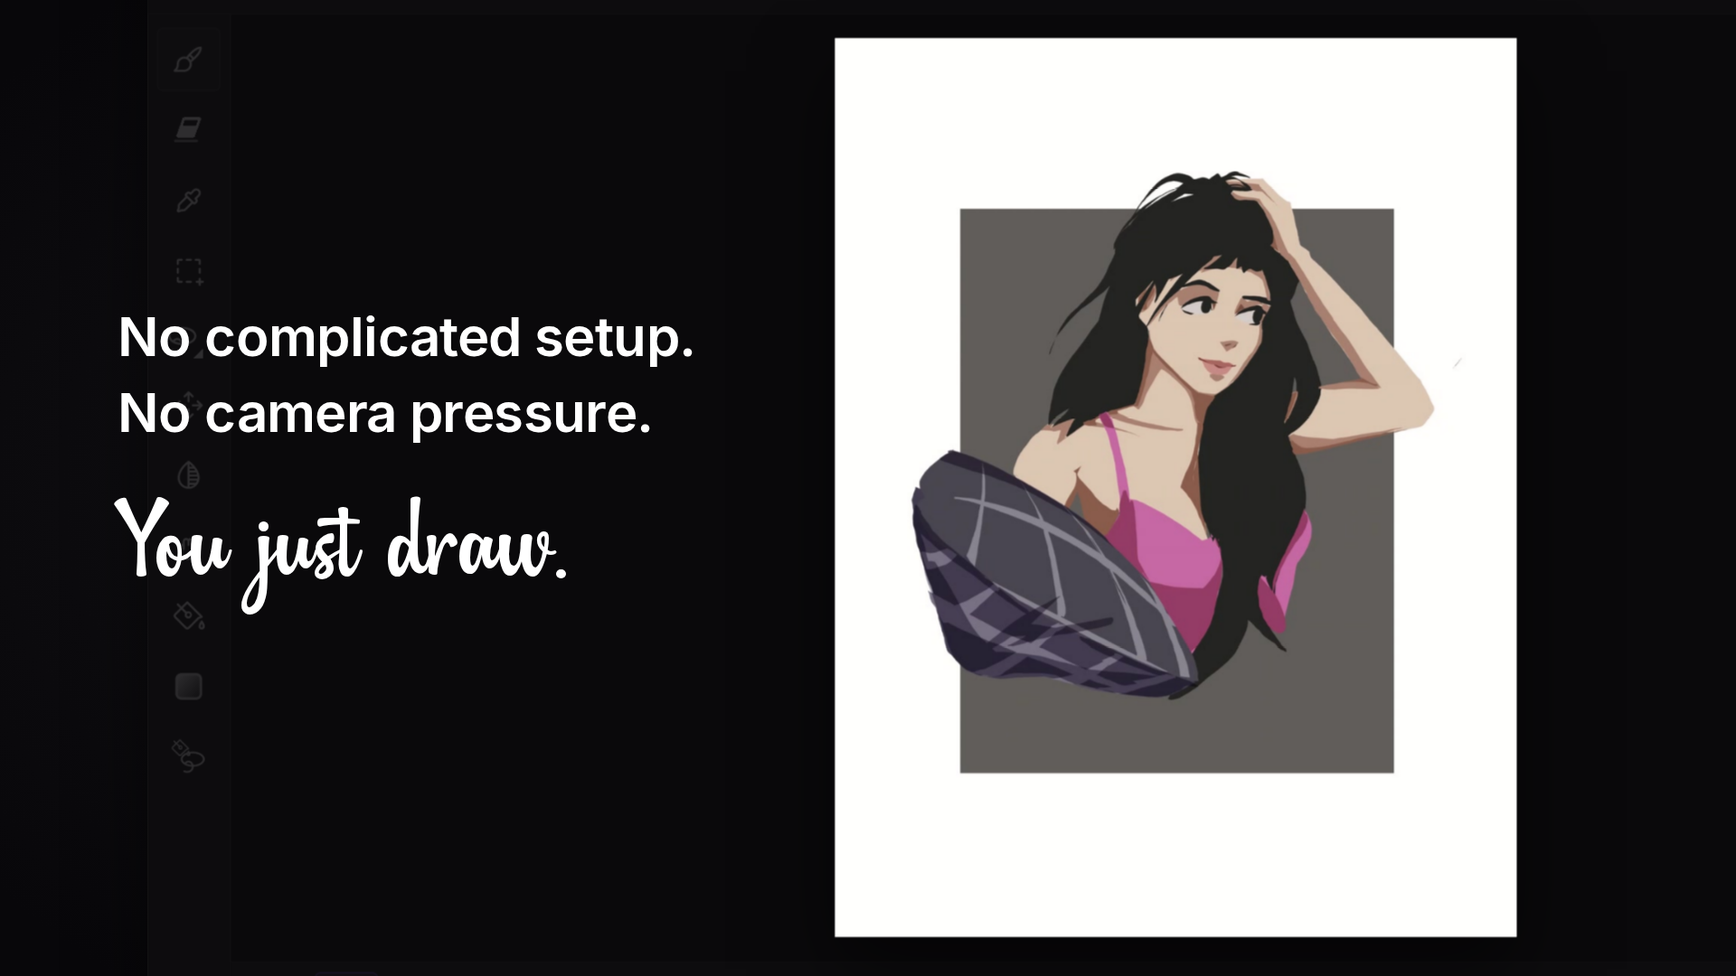
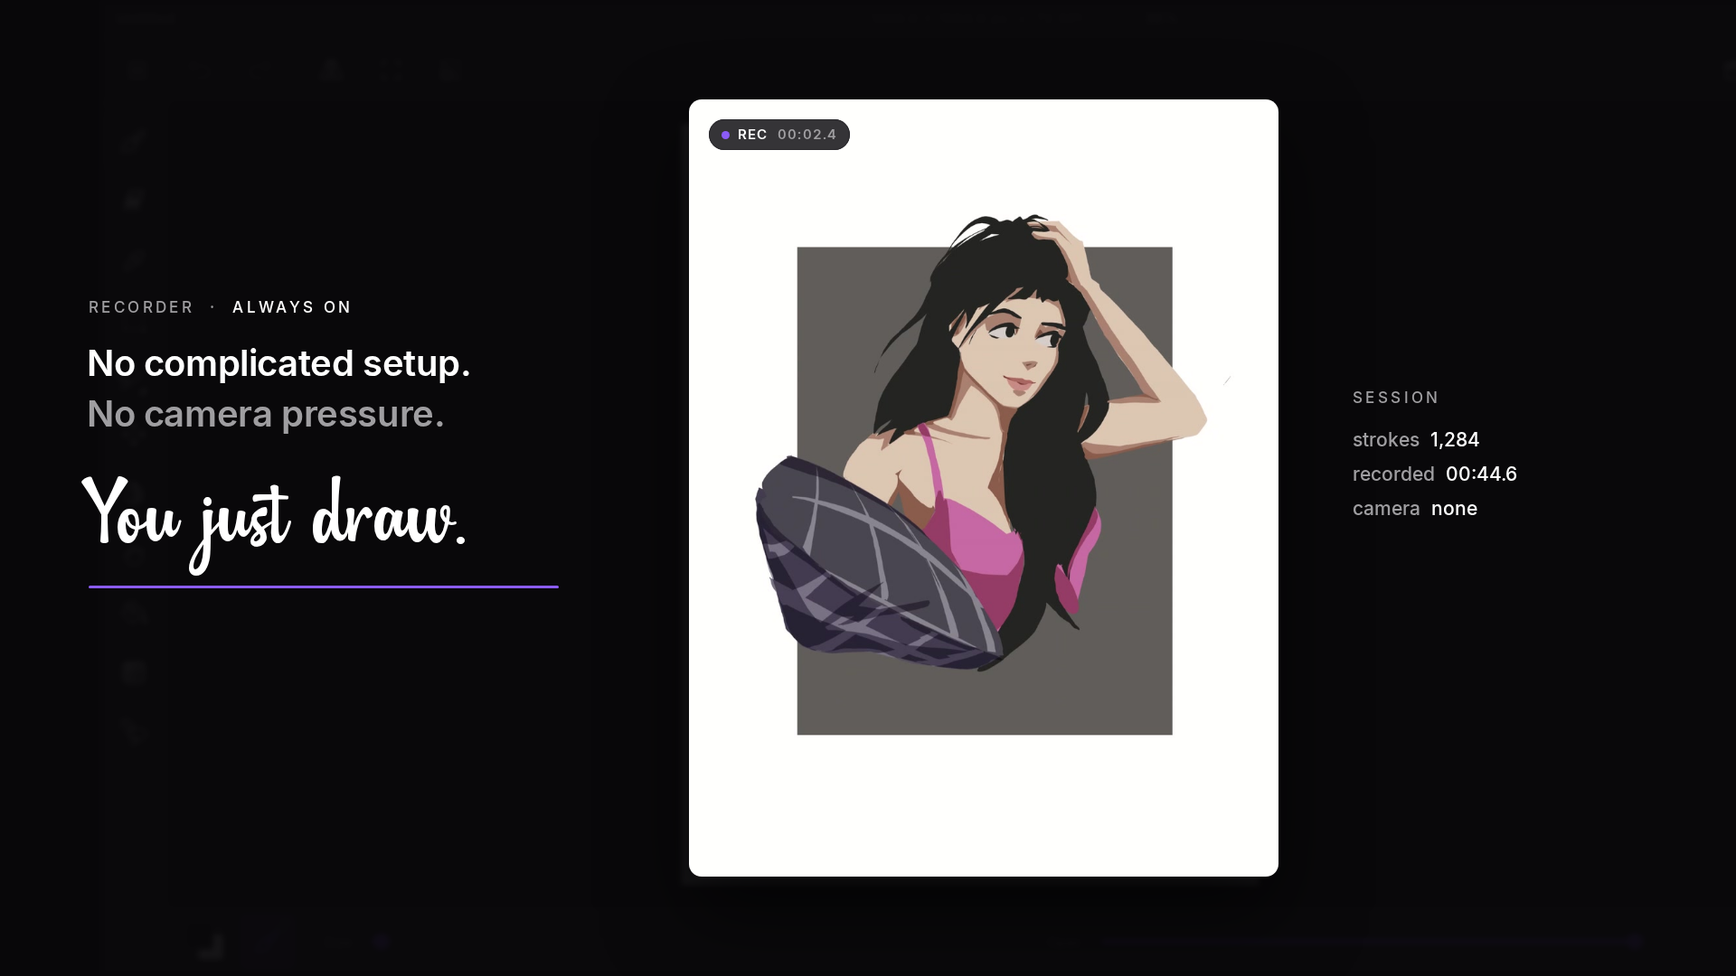
Storyboard v2: real app panels in the exploded open, framed copy shot, platform post windows
Claude-Session: https://claude.ai/code/session_01N6SAp883XGMwBKYGBCyKw5

diff --git a/docs/storyboard/storyboard.html b/docs/storyboard/storyboard.html
@@ -26,30 +26,41 @@ html,body { margin:0; background:var(--bg); }
 .bar { height:12px; border-radius:6px; background:#2a292d; }
 .fmt { font:500 17px Inter; letter-spacing:.2em; color:var(--muted); text-align:center; }
 .fmt b { color:#fff; font-weight:600; }
+.win { position:absolute; border-radius:16px; overflow:hidden; background:#000; box-shadow:0 34px 90px rgba(0,0,0,.65), 0 0 0 1px #2A292D; }
+.win .tb { position:absolute; left:0; top:0; right:0; height:40px; background:#1c1b1f; box-shadow:inset 0 -1px 0 #2A292D; }
+.win .tb i { display:inline-block; width:11px; height:11px; border-radius:6px; background:#3a393d; margin:15px 0 0 8px; }
+.win .tb i:first-child { margin-left:16px; }
+.win .tb span { position:absolute; left:0; right:0; top:0; text-align:center; font:600 14px/40px Inter; color:var(--muted); }
+.P { box-shadow:0 60px 120px rgba(0,0,0,.7) !important; border-radius:12px; }
 </style></head><body>
 
-<!-- 1 · Exploded studio -->
-<div class="frame" id="f1"><div class="cam"><div class="rig" style="transform:scale(.66) translateY(60px) rotateX(50deg) rotateZ(-30deg)">
-  <img class="L" src="../../ui/studio/base.png" style="width:1920px;height:1080px;left:-960px;top:-540px;border-radius:14px">
-  <div class="L" style="background:#fff;left:-316px;top:-404px;width:639px;height:843px;transform:translateZ(90px)"></div>
-  <img class="L" src="../../ui/studio/bottom.png" style="left:-882px;top:462px;width:1770px;height:78px;transform:translateZ(170px)">
-  <img class="L" src="../../ui/studio/rail.png" style="left:888px;top:-426px;width:72px;height:966px;transform:translateZ(240px)">
-  <img class="L" src="../../ui/studio/tools.png" style="left:-960px;top:-426px;width:78px;height:966px;transform:translateZ(300px)">
-  <img class="L" src="../../ui/studio/toolbar.png" style="left:-960px;top:-498px;width:1920px;height:72px;transform:translateZ(360px)">
-  <img class="L" src="../../ui/studio/title.png" style="left:-960px;top:-540px;width:1920px;height:42px;transform:translateZ(430px)">
+<!-- 1 · Exploded studio: the real Brushes, Brush Properties, Colors and Layers panels float at their own heights -->
+<div class="frame" id="f1"><div class="cam"><div class="rig" style="transform:translate(30px,-10px) scale(.56) rotateX(42deg) rotateZ(-22deg)">
+  <img class="L" src="../../ui/studio/clean.png" style="width:1920px;height:1080px;left:-960px;top:-540px;border-radius:14px">
+  <div class="L" style="background:#fff;left:-316px;top:-404px;width:639px;height:843px;transform:translateZ(40px)"></div>
+  <img class="L P" src="../../ui/studio/p_layers.png" style="left:470px;top:-40px;width:444px;height:626px;transform:translateZ(200px)">
+  <img class="L P" src="../../ui/studio/p_brush.png" style="left:-880px;top:-420px;width:534px;height:804px;transform:translateZ(320px)">
+  <img class="L P" src="../../ui/studio/p_colour.png" style="left:360px;top:-480px;width:414px;height:605px;transform:translateZ(400px)">
+  <img class="L P" src="../../ui/studio/p_adjust.png" style="left:-430px;top:-560px;width:414px;height:450px;transform:translateZ(600px)">
 </div></div></div>
 
-<!-- 2 · Focus on the canvas, the drawing plays, copy on the left -->
+<!-- 2 · Focus on the canvas: same frame language as the skin showcase (eyebrow → statement → script → tokens) -->
 <div class="frame" id="f2">
-  <div class="cam"><div class="rig" style="transform:scale(1.18) translate(285px,-18px)">
-    <img class="L" src="../../ui/studio/base.png" style="width:1920px;height:1080px;left:-960px;top:-540px">
-    <img class="L" src="../../ui/studio.png" style="width:1920px;height:1080px;left:-960px;top:-540px;clip-path:inset(0 0 0 0)">
-    <div class="L" style="background:rgba(8,7,10,.84);left:-960px;top:-540px;width:1920px;height:1080px;box-shadow:none"></div>
-    <img class="L" src="../../build/frames/canvas/70.jpg" style="left:-316px;top:-404px;width:639px;height:843px">
+  <div class="cam"><div class="rig" style="transform:scale(1.0) translate(110px,0)">
+    <img class="L" src="../../ui/studio/clean.png" style="width:1920px;height:1080px;left:-960px;top:-540px;box-shadow:none;filter:blur(3px)">
+    <div class="L" style="background:rgba(8,7,10,.95);left:-1400px;top:-900px;width:2800px;height:1800px;box-shadow:none"></div>
   </div></div>
-  <div class="abs" style="left:130px;top:330px;font:600 60px/84px Inter;letter-spacing:-.01em">No complicated setup.</div>
-  <div class="abs" style="left:130px;top:414px;font:600 60px/84px Inter;letter-spacing:-.01em">No camera pressure.</div>
-  <div class="abs" style="left:126px;top:520px;font:132px/150px 'Southern Beach'">You just draw.</div>
+  <div class="abs" style="left:762px;top:110px;width:652px;height:860px;border-radius:14px;overflow:hidden;box-shadow:0 40px 90px rgba(0,0,0,.6)"><img src="../../build/frames/canvas/70.jpg" style="width:100%;height:100%"></div>
+  <div class="abs" style="left:784px;top:132px;height:34px;padding:0 14px;border-radius:17px;background:rgba(20,19,22,.86);box-shadow:inset 0 0 0 1px var(--hair);font:600 15px/34px Inter;letter-spacing:.08em;color:#fff;font-feature-settings:'tnum'"><span style="display:inline-block;width:9px;height:9px;border-radius:5px;background:var(--accent);margin-right:9px;vertical-align:0"></span>REC&nbsp;&nbsp;<span style="color:var(--muted)">00:02.4</span></div>
+  <div class="abs eyebrow" style="left:98px;top:330px">Recorder&nbsp;&nbsp;·&nbsp;&nbsp;<b>always on</b></div>
+  <div class="abs" style="left:96px;top:374px;font:600 40px/56px Inter;letter-spacing:-.01em;color:#fff">No complicated setup.</div>
+  <div class="abs" style="left:96px;top:430px;font:600 40px/56px Inter;letter-spacing:-.01em;color:var(--muted)">No camera pressure.</div>
+  <div class="abs" style="left:90px;top:500px;font:112px/130px 'Southern Beach'">You just draw.</div>
+  <div class="abs" style="left:98px;top:648px;width:520px;height:3px;border-radius:2px;background:var(--accent)"></div>
+  <div class="abs eyebrow" style="left:1496px;top:430px">Session</div>
+  <div class="abs row" style="left:1496px;top:468px;line-height:38px">strokes&nbsp;&nbsp;<span class="v">1,284</span></div>
+  <div class="abs row" style="left:1496px;top:506px;line-height:38px">recorded&nbsp;&nbsp;<span class="v">00:44.6</span></div>
+  <div class="abs row" style="left:1496px;top:544px;line-height:38px">camera&nbsp;&nbsp;<span class="v">none</span></div>
 </div>
 
 <!-- 3 · Focus on Replay: camera pans to the toolbar, cursor clicks the clapper -->
@@ -87,36 +98,78 @@ html,body { margin:0; background:var(--bg); }
   <svg class="cursor" style="left:1060px;top:892px;width:46px" viewBox="0 0 24 24"><path d="M4 2l15 11-7 1 4 8-3 1-4-8-5 5z" fill="#fff" stroke="#000" stroke-width="1.2" stroke-linejoin="round"/></svg>
 </div>
 
-<!-- 6 · One export, every format: feed post · reel · video (generic templates, no platform logos) -->
+<!-- 6 · Post templates as windows: Instagram post (4:5), TikTok (9:16, the box), YouTube (16:9) -->
 <div class="frame" id="f6">
-  <div class="abs" style="left:0;width:1920px;top:64px;text-align:center;font:600 46px Inter;letter-spacing:-.01em">Export once. <span style="color:var(--muted)">Post anywhere.</span></div>
-  <!-- 1:1 feed post -->
-  <div class="card" style="left:150px;top:228px;width:480px;height:624px">
-    <div class="abs" style="left:18px;top:14px"><span class="av"></span><span class="handle">zexdraws</span></div>
-    <div class="media" style="left:0;top:62px;width:480px;height:480px;background-image:url(../../build/frames/manga/690.jpg)"></div>
-    <svg class="abs" style="left:18px;top:556px" width="150" height="28" viewBox="0 0 150 28" fill="none" stroke="#fff" stroke-width="2.2" stroke-linejoin="round"><path d="M14 24S2 16 2 9a6 6 0 0 1 12-2 6 6 0 0 1 12 2c0 7-12 15-12 15z"/><path d="M46 5h20a4 4 0 0 1 4 4v10a4 4 0 0 1-4 4H54l-6 4v-4h-2a4 4 0 0 1-4-4V9a4 4 0 0 1 4-4z"/><path d="M96 14l8-9v5c9 0 13 5 13 14-3-5-6-6-13-6v5z"/></svg>
-    <div class="abs bar" style="left:18px;top:596px;width:300px"></div>
+  <div class="abs" style="left:0;width:1920px;top:58px;text-align:center;font:600 46px Inter;letter-spacing:-.01em">Export once. <span style="color:var(--muted)">Post anywhere.</span></div>
+
+  <!-- Instagram -->
+  <div class="win" style="left:170px;top:196px;width:440px;height:792px">
+    <div class="tb"><i></i><i></i><i></i><span>Instagram</span></div>
+    <div class="abs" style="left:0;top:40px;width:440px;height:56px;background:#000">
+      <span class="abs" style="left:12px;top:10px;width:36px;height:36px;border-radius:18px;box-shadow:0 0 0 2px #000,0 0 0 4px #5b5a5e;background:url(../../assets/logo.png) center/cover"></span>
+      <span class="abs" style="left:60px;top:10px;font:600 14px Inter;color:#fff">zexdraws</span>
+      <span class="abs" style="left:60px;top:29px;font:500 12px Inter;color:#d6d6d6">Original audio</span>
+      <svg class="abs" style="right:14px;top:22px" width="20" height="6" viewBox="0 0 20 6" fill="#fff"><circle cx="3" cy="3" r="2"/><circle cx="10" cy="3" r="2"/><circle cx="17" cy="3" r="2"/></svg>
+    </div>
+    <div class="media" style="left:0;top:96px;width:440px;height:550px;background-image:url(../../build/frames/manga/690.jpg)"></div>
+    <div class="abs" style="left:0;top:646px;width:440px;height:146px;background:#000">
+      <svg class="abs" style="left:12px;top:12px" width="420" height="26" viewBox="0 0 420 26" fill="none" stroke="#fff" stroke-width="2" stroke-linejoin="round" stroke-linecap="round">
+        <path d="M13 23S2 16 2 9a5.5 5.5 0 0 1 11-2 5.5 5.5 0 0 1 11 2c0 7-11 14-11 14z"/>
+        <path d="M58 22.5l-6 1.5 1.5-5A10 10 0 1 1 58 22.5z"/>
+        <path d="M84 3l22 0-12 21-2-9z M92 15l14-12"/>
+        <path d="M400 3h14v21l-7-6-7 6z"/>
+      </svg>
+      <div class="abs" style="left:14px;top:48px;font:600 14px Inter;color:#fff">12,408 likes</div>
+      <div class="abs" style="left:14px;top:70px;width:412px;font:500 14px/19px Inter;color:#fff"><b style="font-weight:600">zexdraws</b> Every stroke, replayable. Recorded and exported in ZexDraws</div>
+      <div class="abs" style="left:14px;top:112px;font:500 13px Inter;color:#a8a8a8">View all 214 comments</div>
+    </div>
   </div>
-  <!-- 9:16 reel: this is the box from the showcase -->
-  <div class="card" style="left:700px;top:185px;width:400px;height:711px">
-    <div class="media" style="inset:0;background-image:url(../../build/frames/fantasy/690.jpg)"></div>
-    <div class="abs" style="left:0;right:0;bottom:0;height:200px;background:linear-gradient(transparent,rgba(0,0,0,.6))"></div>
-    <div class="abs" style="left:18px;bottom:52px"><span class="av"></span><span class="handle">zexdraws</span></div>
-    <div class="abs" style="left:18px;bottom:24px;width:220px;height:10px;border-radius:5px;background:rgba(255,255,255,.35)"></div>
-    <svg class="abs" style="right:16px;bottom:120px" width="30" height="150" viewBox="0 0 30 150" fill="none" stroke="#fff" stroke-width="2.4" stroke-linejoin="round"><path d="M15 26S3 18 3 11a6 6 0 0 1 12-2 6 6 0 0 1 12 2c0 7-12 15-12 15z"/><path d="M5 60h20a3 3 0 0 1 3 3v10a3 3 0 0 1-3 3H13l-6 4v-4H5a3 3 0 0 1-3-3V63a3 3 0 0 1 3-3z"/><path d="M5 128l9-9v5c9 0 13 5 13 14-3-5-6-6-13-6v5z"/></svg>
-    <div class="abs" style="left:0;bottom:0;width:150px;height:4px;background:#fff"></div>
+
+  <!-- TikTok: the replay box becomes this video -->
+  <div class="win" style="left:670px;top:196px;width:420px;height:792px">
+    <div class="tb"><i></i><i></i><i></i><span>TikTok</span></div>
+    <div class="media" style="left:0;top:40px;width:420px;height:752px;background-image:url(../../build/frames/fantasy/690.jpg)"></div>
+    <div class="abs" style="left:0;top:40px;width:420px;height:110px;background:linear-gradient(rgba(0,0,0,.45),transparent)"></div>
+    <div class="abs" style="left:0;top:582px;width:420px;height:210px;background:linear-gradient(transparent,rgba(0,0,0,.65))"></div>
+    <div class="abs" style="left:0;width:420px;top:58px;text-align:center;font:600 16px Inter;color:rgba(255,255,255,.65)">Following&nbsp;&nbsp;&nbsp;&nbsp;<span style="color:#fff">For You</span></div>
+    <div class="abs" style="left:236px;top:84px;width:26px;height:3px;border-radius:2px;background:#fff"></div>
+    <svg class="abs" style="right:16px;top:58px" width="20" height="20" viewBox="0 0 20 20" fill="none" stroke="#fff" stroke-width="2.2"><circle cx="8.5" cy="8.5" r="6.5"/><path d="M13.5 13.5L19 19"/></svg>
+    <div class="abs" style="right:12px;top:380px;width:50px;text-align:center;font:600 12px Inter;color:#fff">
+      <div style="width:46px;height:46px;margin:0 auto;border-radius:23px;box-shadow:0 0 0 2px #fff;background:url(../../assets/logo.png) center/cover"></div>
+      <div style="width:20px;height:20px;margin:-10px auto 0;border-radius:10px;background:#FE2C55;font:700 16px/20px Inter;position:relative">+</div>
+      <svg style="margin-top:14px" width="36" height="32" viewBox="0 0 24 22" fill="#fff"><path d="M12 21S1 14 1 7a5.5 5.5 0 0 1 11-2 5.5 5.5 0 0 1 11 2c0 7-11 14-11 14z"/></svg><div style="margin-top:2px">48.2K</div>
+      <svg style="margin-top:12px" width="34" height="32" viewBox="0 0 24 22" fill="#fff"><path d="M12 1C5.9 1 1 5.2 1 10.3c0 3 1.6 5.6 4.2 7.3L4.5 21l4.4-2.2c1 .3 2 .4 3.1.4 6.1 0 11-4.2 11-9.3S18.1 1 12 1z"/></svg><div>1,204</div>
+      <svg style="margin-top:12px" width="28" height="32" viewBox="0 0 18 22" fill="#fff"><path d="M1 2.5A1.5 1.5 0 0 1 2.5 1h13A1.5 1.5 0 0 1 17 2.5V21l-8-5.5L1 21z"/></svg><div>9,830</div>
+      <svg style="margin-top:12px" width="34" height="30" viewBox="0 0 24 20" fill="#fff"><path d="M13 1l10 9-10 9v-5.5C6 13.5 3 16 1 19c.5-7 4.5-12 12-12.5z"/></svg><div>3,112</div>
+    </div>
+    <div class="abs" style="left:16px;top:690px;width:320px;color:#fff">
+      <div style="font:600 16px Inter">@zexdraws</div>
+      <div style="font:500 14px/19px Inter;margin-top:6px">Every stroke, replayable. Fantasy frame <b style="font-weight:600">#timelapse #digitalart</b></div>
+      <div style="font:500 13px Inter;margin-top:8px">&#9835;&nbsp; original sound - zexdraws</div>
+    </div>
+    <div class="abs" style="left:0;top:789px;width:420px;height:3px;background:rgba(255,255,255,.25)"><div style="width:46%;height:3px;background:#fff"></div></div>
   </div>
-  <!-- 16:9 video -->
-  <div class="card" style="left:1170px;top:330px;width:600px;height:450px">
-    <div class="media" style="left:0;top:0;width:600px;height:338px;background-image:url(../../build/frames/pink/690.jpg)"></div>
-    <div class="abs" style="left:0;top:334px;width:600px;height:4px;background:rgba(255,255,255,.2)"><div style="width:42%;height:4px;background:#fff"></div></div>
-    <div class="abs" style="left:18px;top:358px"><span class="av"></span></div>
-    <div class="abs bar" style="left:66px;top:362px;width:380px;height:14px;background:#3a393d"></div>
-    <div class="abs bar" style="left:66px;top:390px;width:220px"></div>
+
+  <!-- YouTube -->
+  <div class="win" style="left:1150px;top:300px;width:600px;height:572px;background:#0f0f0f">
+    <div class="tb"><i></i><i></i><i></i><span>YouTube</span></div>
+    <div class="media" style="left:0;top:40px;width:600px;height:338px;background-image:url(../../build/frames/pink/690.jpg);background-position:center 75%"></div>
+    <div class="abs" style="left:0;top:298px;width:600px;height:80px;background:linear-gradient(transparent,rgba(0,0,0,.7))"></div>
+    <div class="abs" style="left:12px;top:342px;width:576px;height:3px;background:rgba(255,255,255,.3)"><div style="width:47%;height:3px;background:#f00"></div></div>
+    <div class="abs" style="left:279px;top:337px;width:13px;height:13px;border-radius:7px;background:#f00"></div>
+    <svg class="abs" style="left:14px;top:354px" width="190" height="18" viewBox="0 0 190 18" fill="#fff"><path d="M2 1v16h4V1zM10 1v16h4V1z"/><path d="M28 2l10 7-10 7z M40 2h2.5v14H40z"/><path d="M54 6h4l5-4v14l-5-4h-4z"/><text x="80" y="14" font-family="Inter" font-size="13" font-weight="500">0:14 / 0:30</text></svg>
+    <svg class="abs" style="right:14px;top:354px" width="80" height="18" viewBox="0 0 80 18" fill="none" stroke="#fff" stroke-width="2"><circle cx="9" cy="9" r="3"/><path d="M9 1v3M9 14v3M1 9h3M14 9h3"/><path d="M62 2h-5v5M74 2h5v5M62 16h-5v-5M74 16h5v-5"/></svg>
+    <div class="abs" style="left:14px;top:390px;width:572px;font:700 18px/24px Inter;color:#f1f1f1">Drawing an explosion, every stroke replayed | ZexDraws timelapse</div>
+    <div class="abs" style="left:14px;top:448px;width:572px;height:40px">
+      <span class="abs" style="left:0;top:2px;width:36px;height:36px;border-radius:18px;background:url(../../assets/logo.png) center/cover"></span>
+      <span class="abs" style="left:48px;top:2px;font:600 15px Inter;color:#f1f1f1">ZexDraws</span>
+      <span class="abs" style="left:48px;top:22px;font:500 12px Inter;color:#aaa">128K subscribers</span>
+      <span class="abs" style="left:176px;top:2px;height:36px;padding:0 16px;border-radius:18px;background:#f1f1f1;color:#0f0f0f;font:600 14px/36px Inter">Subscribe</span>
+      <span class="abs" style="right:0;top:2px;height:36px;padding:0 16px;border-radius:18px;background:#272727;color:#f1f1f1;font:600 14px/36px Inter">
+        <svg width="16" height="16" viewBox="0 0 24 24" fill="none" stroke="#f1f1f1" stroke-width="2" style="vertical-align:-3px"><path d="M7 10v11H3V10zM7 10l4-8c2 0 3 1 3 3v4h6c1.2 0 2 1 1.8 2.2l-1.6 8A2 2 0 0 1 18.2 21H7"/></svg>&nbsp; 8.4K&nbsp;&nbsp;<span style="color:#555">|</span>&nbsp;&nbsp;<svg width="16" height="16" viewBox="0 0 24 24" fill="none" stroke="#f1f1f1" stroke-width="2" style="vertical-align:-5px;transform:scaleY(-1)"><path d="M7 10v11H3V10zM7 10l4-8c2 0 3 1 3 3v4h6c1.2 0 2 1 1.8 2.2l-1.6 8A2 2 0 0 1 18.2 21H7"/></svg></span>
+    </div>
+    <div class="abs" style="left:14px;top:500px;width:572px;height:58px;border-radius:12px;background:#272727;padding:10px 12px;box-sizing:border-box;font:600 13px/19px Inter;color:#f1f1f1">128K views&nbsp; 2 days ago<br><span style="font-weight:500;color:#d0d0d0">Recorded automatically, exported with the Neubrutalism frame in pink.</span></div>
   </div>
-  <div class="abs fmt" style="left:150px;width:480px;top:880px"><b>1:1</b>&nbsp;&nbsp;Post</div>
-  <div class="abs fmt" style="left:700px;width:400px;top:920px"><b>9:16</b>&nbsp;&nbsp;Reel</div>
-  <div class="abs fmt" style="left:1170px;width:600px;top:808px"><b>16:9</b>&nbsp;&nbsp;Video</div>
 </div>
 
 <!-- 7 · Lockup (the logo animation you liked, held to the end) -->

diff --git a/docs/shotlist-studio.md b/docs/shotlist-studio.md
@@ -7,18 +7,17 @@ Ends on the lockup (no loop back, no infinite card floor).
 
 | # | Beats | Time | Shot | Motion | Sound |
 |---|---|---|---|---|---|
-| 1 | 0–6 | 0.0–2.8 | **Exploded studio.** Real studio UI split into layers: base with empty sockets, then the bottom bar, right rail, left tools, toolbar and title bar, each floating at its own height. Blank white page at the bottom. | Opens already exploded at an isometric tilt. Panels land into their sockets one per beat (1, 2, 3, 4). Camera untilts to flat on beat 5. | Low hit at 0, a click per landing, swish on the untilt |
-| 2 | 6–12 | 2.8–5.6 | **Focus on the canvas.** Camera pushes into the page (right side). The page becomes the Canvas_drawing footage. The UI dims to lighting. Copy on the left: "No complicated setup." / "No camera pressure." / *You just draw.* (script) | Push-in on the default spring. Lines roll up from masks on 6.5, 8 and 9.5. | Whoosh in, tick per line, groove starts |
+| 1 | 0–6 | 0.0–2.8 | **Exploded studio.** The real studio is the flat base with a blank white page. Above it float the real **Brushes, Brush Properties, Colors and Layers** panels (captured from the app), each at its own height and spread over the workspace. | Opens already exploded. On beats 1–4 each panel drops and folds into its button on the right rail, one per beat. The camera levels out on beat 5. | Low hit at 0, a click per panel, swish on the untilt |
+| 2 | 6–12 | 2.8–5.6 | **Focus on the canvas**, laid out like the skin showcase. The page is a framed card with a REC chip and a running timecode, playing the Canvas_drawing video. Left block: eyebrow "Recorder · always on" → "No complicated setup." (white) → "No camera pressure." (grey) → *You just draw.* (script) → accent underline. Right block: Session tokens (strokes, recorded, camera: none). The studio behind is darkened and blurred. | Push-in. Each line rolls up from a mask on 6.5, 8 and 9.5. The token digits count up. | Whoosh in, tick per line, groove starts |
 | 3 | 12–14 | 5.6–6.6 | **Replay.** Copy lifts out. Camera pans to the top-right toolbar. Cursor glides to the clapper (Replay) button and clicks: purple pressed state. | Camera pan, cursor travel, button press dip | Swish, click on 13, drums drop for that beat |
 | 4 | 14–21.5 | 6.6–10.1 | **Skin showcase** (the switcher you liked). The page lifts off the studio and morphs into the replay box while the studio falls away. Left: Look 01/05, frame name, colour dots and ring. Right: skin and colour tokens. | Same as the previous film: Pink, Yellow, Orange, Manga, Fantasy, switching every 1.5 beats | Boom on 14, click per switch |
 | 5 | 21.5–23 | 10.1–10.8 | **Export.** HUD exits. The real "Export video" button (cropped from the app) pops in under the box. Cursor clicks it. | Button scales in with a tiny overshoot, then a press dip | Tick, click on 22.5 |
-| 6 | 23–27 | 10.8–12.7 | **Post templates.** The box morphs into the 9:16 reel in the middle. A 1:1 feed post slides in from the left and a 16:9 video from the right. Each plays a different skin (Manga / Fantasy / Pink). Heading: "Export once. Post anywhere." Format labels underneath. | Box morph, side cards slide in staggered, labels roll up | Whoosh, two swishes |
+| 6 | 23–27 | 10.8–12.7 | **Post templates as windows.** An Instagram post (4:5), a TikTok video (9:16, middle) and a YouTube watch page (16:9). Each sits in a window with the platform name in its title bar. Each follows its real layout: Instagram has the header, the like/comment/share/save row, likes and caption. TikTok has Following/For You, the right-hand icon column with counts, the handle, caption and sound line. YouTube has the player with progress bar and controls, the title, the channel row with Subscribe, the like pill and the description box. They play Manga, Fantasy and Pink. Heading: "Export once. Post anywhere." | The box morphs into the TikTok video. Instagram slides in from the left and YouTube from the right, staggered. The counts tick up. | Whoosh, two swishes |
 | 7 | 27–32 | 12.7–15.0 | **Lockup** (the logo animation you liked). All three cards converge to centre, the logo tile opens out of that point and moves left, the wordmark slides in, then the slash, tagline and "Recorder built in" pill. Holds to the end. | Same springs as the previous film, no exit | Crash on 27, drums out, music fades at 15 s |
 
 ## Notes / open choices
-- Post templates are generic (no Instagram/TikTok/YouTube logos or names) so the film can't read as using
-  their branding. They're labelled by format instead. Say if you want named platforms.
-- The 9:16 reel crops the replay video to the canvas, so the skin frame is mostly cropped out. The square post
-  and 16:9 video keep the frame visible.
+- The post windows copy each platform's real layout and use the platform name as text. They use no platform
+  logo marks, and the counts, captions and channel are made up for ZexDraws. Say if you'd rather they be generic.
+- The panels in shot 1 were re-captured from the Linux build: Brushes, Brush Properties, Colors and Layers.
 - Canvas_drawing is nearly finished from its first frame. Shot 2 shows the last ~3 s of colouring, not a
   drawing from blank. A clip that starts from a sketch would sell "you just draw" better.
